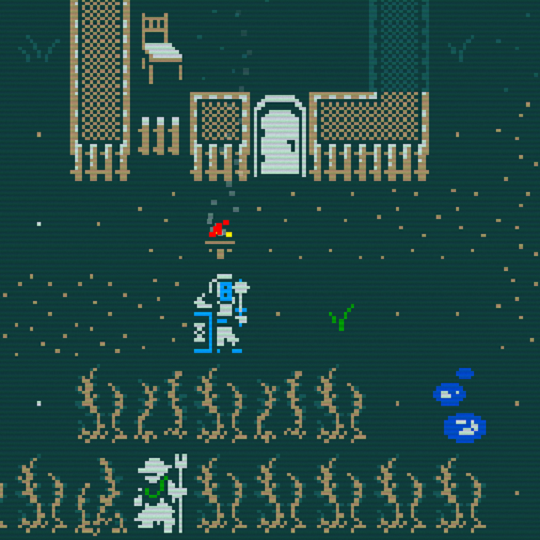
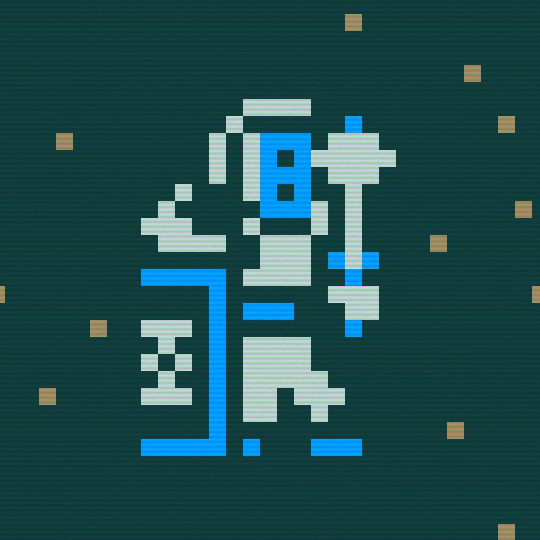
Adjusted starting gear; updated thumbnail image yet again

diff --git a/README.md b/README.md
@@ -10,9 +10,10 @@ Class features:
 - +300 reputation with the Mechanimists
 
 Starting equipment:
-- Iron Mace
+- Bronze Mace
 - Steel Shield
 - Leather Armor
+- Leather Moccasins
 
 Starting items:
 - 1 copy of The Canticles Chromaic, Verses XVII-XXIV
@@ -20,4 +21,4 @@ Starting items:
 - 2 empty waterskins
 - 2 waterskins with 32 drams of fresh water each
 - 8-10 crusty loaves
-- 2-3 witchwood bark
+- 3-4 witchwood bark
